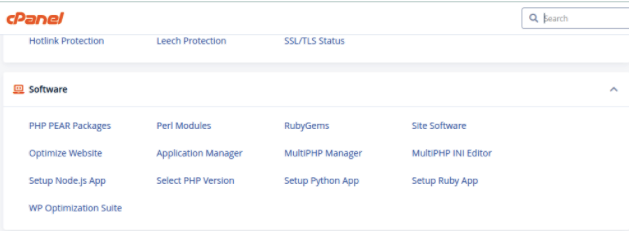
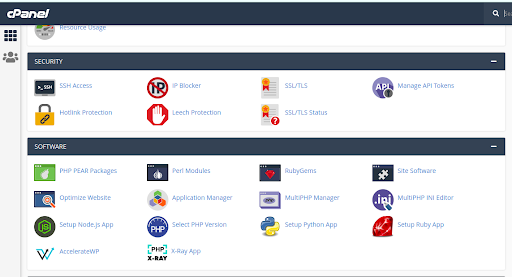
TCR-31: AccelerateWP documentation

diff --git a/docs/.vuepress/urls-mapping.js b/docs/.vuepress/urls-mapping.js
@@ -2542,5 +2542,6 @@ module.exports = {
   "/introduction/#what-is-cloudlinux": "/introduction/#what-is-cloudlinux-os-shared",
   "introduction/#cloudlinux-life-cycle": "/introduction/#cloudlinux-os-shared-life-cycle",
   "/introduction/#description-of-cloudlinux-components": "/introduction/#description-of-cloudlinux-os-shared-components",
-  "lve_manager/#cloudlinux-installation-wizard": "/lve_manager/#cloudlinux-os-shared-installation-wizard"
+  "lve_manager/#cloudlinux-installation-wizard": "/lve_manager/#cloudlinux-os-shared-installation-wizard",
+  "/wpos-plugin/#site-optimization-plugin": "/wpos-plugin/#site-optimization-module"
 };

diff --git a/docs/wpos-plugin/README.md b/docs/wpos-plugin/README.md
@@ -1,12 +1,15 @@
-# WordPress Optimization Suite
+# AccelerateWP & Smart Advice
 
-Also called WP Optimization Suite.
+AccelerateWP is an improved and updated WP Optimization Suite.
 
 ## Introduction
 
-Performance has a great impact on the site attendance and efficiency. We know that many customers want an auto tool to resolve problems with site performance. Many sites are built with WordPress CMS. So, we decided to find and implement a complex solution – the “WordPress Optimization Suite” to help our customers increase their site performance.
+Performance has a great impact on the site attendance and efficiency. We know that many customers want an auto tool to resolve problems with site performance. Many sites are built with WordPress CMS. So, we decided to find and implement a complex solution – the AccelerateWP tool to help our customers increase their site performance.
 
-We introduce the first functionality for the optimization suite called “Object cache module”.
+There are two modules in the AccelerateWP:  Object Cache Module and Site Optimization Module.
+
+The **Smart Advice** tool helps to decide which module will be most effective and helpful for particular website performance optimization.
+
 
 ### Object caching explanation
 
@@ -39,21 +42,38 @@ When we recommend to use Object cache module:
 * Max Memory usage limit (or limit for memory using by the Object cache module)
 
 
-### Limitations
+### Object Cache Module Limitations
 
 For the first beta release, there are the following limitations:
 
+* Required ea-PHP version 7.4 and 8.0.
 * Recommended WordPress version 3.7 and higher.
 * Object Cache module conflicts with other WordPress Caching plugins.
 * Object Cache module conflicts with the [Snuffleupagus](https://snuffleupagus.readthedocs.io/) php-extension.
 * Object Cache module does not work with WordPress Multisite mode.
 
-Let’s go to the interface and see how to use the WP Optimization Suite.
+### Site Optimization Module
+
+Site Optimization Module incorporates best practices in improving website performance.
+
+The main techniques which will be applied:
+
+* Caching
+* File optimization
+* Media Lazy Load
+* Content Preload 
+* Database cleanup
+
+### Smart Advice
+
+How does Smart Advice make a decision which module needs to be activated?
+
+Smart Advice has information about types of slow requests for the site for the appropriate period of time and creates new advice based on it. Advices are generated automatically so no additional configuration is needed.  
 
 
-## WP Optimization Suite User Interface
+## AccelerateWP User Interface
 
-1. Go to the list of software on your control panel and find the WP Optimization Suite icon:
+1. Go to the list of software on your control panel and find the AccelerateWP icon:
 
 ![](/images/WPOptimizationSuiteIcon.png)
 
@@ -61,13 +81,11 @@ Let’s go to the interface and see how to use the WP Optimization Suite.
 
 ![](/images/WPPluginInterface.png)
 
-1. Find a website for which you want to apply the Object Cache plugin and turn it on
+3. You can turn on the Object Cache module or the Site Optimization module by yourself or via the Smart Advice suggestion.
 
-![](/images/ObjectCachePluginTurnOn.png)
+### AccelerateWP information panel
 
-### Object Cache plugin information panel
-
-On the Object Cache plugin information panel you can find the following statuses.
+On the AccelerateWP information panel you can find the following statuses.
 
 * **Object Cache module Database status**
 
@@ -99,6 +117,26 @@ There is the value limitation for the Max Cache Memory: from 16 MB to 16 GB.
 
 Use the ![](/images/PurgeAllCache.png) button to clear cache for all websites.
 
+* **Smart Advice Suggestions**
+
+
+### Manage Smart Advice
+
+The advices are in the table:
+
+![](/images/SmartAdviceTable.png)
+
+To get an updated list of advices, click the *Refresh advice* button.
+
+A **not applied advice** has the *Review* status, description of suggesting optimization and the *Turn on site optimization* button.
+
+![](/images/NotAppliedAdvice.png)
+
+An applied advice will not disappear from the AccelerateWP interface, but it will be in the *Applied* state.
+
+![](/images/AppliedAdvice.png)
+
+
 ### Verifying and changing PHP version for the website
 
 #### Verifying PHP version for the website
@@ -123,11 +161,11 @@ It is important to use `ea-php`/`alt-php` version 7.4 and 8.0 for your website t
 * If you want to use alt-php (7.4 or 8.0), use CloudLinux PHP Selector (if it is available) to change the version.
 	
 
-### Error messages
+### Object Cache Module error messages
 
 #### No compatibility message
 
-Causes of the "No compatibility" message are always [Limitations](/wpos-plugin/#limitations). Each message has a small "how to", so you can try to fix them by yourself via cPanel or WordPress Admin interface.
+Causes of the "No compatibility" message are always [Limitations](/wpos-plugin/#object-cache-module-limitations). Each message has a small "how to", so you can try to fix them by yourself via cPanel or WordPress Admin interface.
 
 ![](/images/WPNoCompatibility.png)
 
@@ -151,8 +189,229 @@ If you get something like "Unexpected WordPress error" you can do the following:
 
 ![](/images/UnexpectedError.png)
 
-* As the first step, verify that [Limitations](/wpos-plugin/#limitations) are not broken.
+* As the first step, verify that [Limitations](/wpos-plugin/#object-cache-module-limitations) are not broken.
 * As the second step, [contact our support team](https://cloudlinux.zendesk.com/hc/en-us/requests/new) for further investigation.
+
+### Site Optimization Module Settings
+
+You can find the CloudLinux Site Optimization plugin in the WordPress Admin interface.
+
+![](/images/OptimizationModuleUI.png)
+
+
+Open *Settings*.
+
+![](/images/OptimizationSettings.png)
+
+#### Caching
+
+#### Mobile caching 
+ 
+Use it only if you website is adapted to use on smartphones and mobile phones.
+
+Separate cache files for mobile devices. In this case the content for mobile devices will be cached into different cache file as for desktop\tablets.
+
+This option is necessary if you have some functionality only for mobile devices, not for desktop\tablets.
+
+When use such options.
+
+![](/images/CacheUsageOptions.png)
+
+:::tip Note
+If you use an additional layer of Cache (Varnish, NGINX , etc.) make sure it can distinguish between desktop and mobile visitors.
+:::
+
+#### User Cache
+
+It is recommended to use such an option when your website has a unique content for each logged-in user. If the user is not logged-in, a common site cache will be used, otherwise each logged-in user’s content will be cached separately.
+
+#### File Optimization
+
+File Optimization consists of Minification and file Combining.
+
+Minification is the process of minimizing code in your web pages and script files. Webmasters look at minification as a primary method of reducing website load times via the bandwidth they use.
+
+Minification also reduces JS, CSS and HTML files. The goal is removing comments and extra spaces. It crunches variables that minimize code and ultimately reduces the file size. 
+
+After minification, the file still functions as it should. The difference is a reduction in bandwidth due to network requests.
+
+**By combining CSS & JS files, HTTP/1 does not allow multiple requests from the same TCP connection between a host server and a web browser**. 
+
+Putting CSS and JS files into their respective groups, makes requests for downloads from a browser safe and more efficient. The old way meant multiple connections that took up bandwidth. 
+ 
+**File (CSS & JS) combining is not necessary for HTTP/2** (see [https://webspeedtools.com/should-i-combine-css-js/](https://webspeedtools.com/should-i-combine-css-js/))
+
+HTTP/2 introduced multiplexing. Now, the browser can send unlimited number of requests to the server, then download all files simultaneously with only one TCP connection.
+
+Consequently, HTTP/2 takes care of multiple TCP connections and the waiting times before each download. In one sense, consolidating CSS and JS files might be unnecessary. 
+ 
+To verify which HTTP version is used for requests on your site, you can use [https://tools.keycdn.com/http2-test](https://tools.keycdn.com/http2-test).
+
+#### CSS Files
+
+**Minify CSS**
+
+Minify CSS reduces file sizes by taking out white space and comments embedded in the code. 
+
+**Combine CSS**
+
+Combine CSS reduces HTTP requests by merging all your files into one. Combine CSS is not recommended if your site uses HTTP/2. 
+
+**Excluded CSS Files**
+
+To single out those CSS files that should not be minimized, list the URLs attached to the CSS files that should be excluded from minification and concatenation (one per line).
+ 
+:::warning Caution!
+Minification removes the domain from the URL.
+:::
+ 
+To prevent that, use (. *).CSS wildcards to exclude all files in a specific location.
+ 
+3rd Party: when excluding external CSS files, use the domain or the full URL path.
+
+#### JavaScript Files
+
+**Minify javascript files**
+
+Minify JavaScript removes whitespace and comments to reduce the file size.
+
+**Combine JavaScripts files**
+
+This option will be active only if you choose Minify javascript files. It is not recommended for HTTP2.
+
+**Load JavaScript deferred**
+
+One major cause of slow web pages is a so-called blocking script ([https://www.dummies.com/web-design-development/javascript/deferred-loading-with-javascript/](https://www.dummies.com/web-design-development/javascript/deferred-loading-with-javascript/)).
+
+Loading JavaScript called a blocking script blocks the webpage from loading.
+ 
+Using the `defer` attribute alerts the browser not to wait for the script. Things will continue as usual per the build HTML and DOM processes. Quietly, the script rests in the background, then runs once the DOM is built.
+
+So, the `Load JavaScript deferred` option adds to each script tag the `defer` attribute. 
+
+**Delay JavaScript Execution**
+
+This option helps to decrease the page load time by delaying loading of all JavaScripts on the page. This option can be applied only for already cached pages, it is incompatible with the Combine JavaScripts files option.
+
+#### Media
+
+**LazyLoad**
+
+LazyLoad affects the page in the next way - if the user opens the page for the first loading there will be only first displayed (visible to user) images, others will be loaded if the user scrolls down. Images added via CSS file, the `<style>` tag or via `Elementor` will not be affected by the LazyLoad.
+
+The following options allows working with LazyLoad
+
+* Enable LazyLoad for images
+* Enable LazyLoad for iframes and videos
+* Excluded images or iframes
+
+#### Image Dimensions
+
+**Add Missing Image Dimensions**
+
+Correct image dimensions help the browser to recognize page structure without delays, because the browser knows how much space is needed for the image.
+
+Cases when image will not be affected by the *Add Missing Image Dimensions*:
+
+* Images which have any attribute with name containing `*height*` or `*width*`
+* Images which are part of the `<picture>` tag
+* SVG images
+* Image from external domains
+
+#### Preload
+
+**Preload Cache**
+
+Usually, a page cache is created when this page is first visited. You can activate the preload page cache. It means that the cache for the page will be created when the page is created or updated.
+
+If sitemap-based cache preloading is activated, a specified sitemap file will be used for preliminary cache generation.
+
+**Preload Links**
+
+Provides functionality to preload the HTML content of the hovered link for acceleration loading pages after click.
+
+**Prefetch DNS Requests**
+
+If your website uses external resources (e.g. Google fonts, Youtube video, etc) CloudLinux Site Optimization can preload these resources for accelerating loading pages. To activate preloading external URLs, provide a list of external URLs.
+
+**Preload Fonts**
+
+Accelerates the loading of fonts by the browser, informing the browser at the very beginning of the request about the full list of fonts to download
+
+#### Advanced Rules
+
+Advanced site caching settings. If you have specific pages that must be processed individually you can add a custom rule for them.
+
+**Never Cache URL(s)**
+
+Provide a list of URLs that cannot be cached.
+
+**Never Cache Cookies**
+
+Provide a list of Cookie files that cannot be cached.
+
+**Never Cache User Agent(s)**
+
+Provide a list of User Agent names that cannot be cached.
+
+**Always Purge URL(s)**
+
+You can specify URLs that will be deleted from the cache when any post or page will be updated.
+
+**Cache Query String(s)**
+
+By default CloudLinux Site Optimization does not cache URLs with query strings, but in this option, you can specify GET-parameters that must be cached.
+
+#### Database
+
+Database optimization provides clearing database from expired and unused data.
+
+**Post Cleanup**
+
+Provides clearing posts revisions, autosaved drafts, and deleted posts from the trash. Be careful, you will not be able to restore this data after clearing it.
+
+**Comments Cleanup**
+
+Provides clearing spam and deleted comments from the trash. Be careful, you will not be able to restore this data after clearing it.
+ 
+**Transients Cleanup**
+
+Provides clearing temporary options for existing plugins and older unused options that keep after deleting plugins.
+ 
+**Database Cleanup**
+
+Provides table optimizations in your database server.
+
+**Automatic cleanup**
+
+Allows you to schedule periodic database cleanups.
+
+#### Heartbeat
+
+WordPress Heartbeat is a function of server polling that provides delivery data from server to browser periodically.
+
+**Reduce or disable Heartbeat activity**
+
+To control server loads you can activate the *Control Heartbeat* function and reduce or disable Heartbeat activity. You can manage Heartbeat activity separately for backend, frontend, and post-editing parts. Be careful, disabling Heartbeat can break plugins that use this functionality.
+
+#### One-click CloudLinux Site Optimization Add-ons
+
+**Varnish**
+
+When the server uses Varnish, you need to activate the add-on for implementing clearing Varnish cache when CloudLinux Site Optimization clears site cache.
+
+**WebP Compatibility**
+
+If your site uses the WebP plugin you can activate CloudLinux Site Optimization WebP Compatibility add-on to achieve browser compatibility with your WebP images.
+
+#### Cloudflare
+
+If your site is connected to the Cloudflare CDN you can activate the Cloudflare add-on to manage Cloudflare options with CloudLinux Site Optimization and automatic clearing cache when CloudLinux Site Optimization clears site cache. After activating the add-on, you need to click the *Modify Options* button and specify the Cloudflare API key, Account E-mail and Zone ID.
+
+
+#### Tools
+
+For backing up the settings, there is a function for exporting settings. To use it, click the *Download settings* button. When you need to restore settings, choose your saved settings file and click the *Upload file and import settings* button.
 
 
 ### Object Cache module Known Issues
@@ -181,20 +440,20 @@ The popular tools:
 * [PageSpeed Insights](https://developers.google.com/speed/pagespeed/insights/)
 * [Pingdom Website Speed Test](https://tools.pingdom.com/)
 
-### Where the WP optimization tool log files are located?
+### Where the AccelerateWP tool log files are located?
 
 Login via SSH, find in your home directory  `~/.clwpos/main.log`. Or you can open it using the control panel file manager.
 
-### I already use the WordPress Redis object cache plugin. Will the WP Optimization Suite be useful for me?
+### I already use the WordPress Redis object cache plugin. Will the AccelerateWP be useful for me?
 
 No, in the current version we suggest the same optimization as you already have. But we include other useful modules in the next versions, so let’s stay in touch.
 
-### I already use the WordPress Redis object cache PRO plugin. Will the WP Optimization Suite be useful for me?
+### I already use the WordPress Redis object cache PRO plugin. Will the AccelerateWP be useful for me?
 
 No, in the current version we suggest the same optimization as you already have. But we include other useful modules in the next versions, so let’s stay in touch.
 
+### What is the difference between Object Module Cache and Caching in Site Optimization Module?
 
+Object Cache Module - object caching in PHP code, only those objects that explicitly use the WordPress Object Cache are cached ([https://developer.wordpress.org/reference/classes/wp_object_cache/](https://developer.wordpress.org/reference/classes/wp_object_cache/)). Typically, such a cache is used to obtain the results of SQL queries or other code entities (some instances of classes, data arrays, etc.), i.e. it's more low-level caching. The page with such caches is also assembled from components, but some of them are taken from the cache if the cache is found in Redis.
 
-
-
-
+Site optimization module - the entire page is cached and stored in the file system in the cache folder. At the very beginning of the request, the content of the file is read from the cache and sent to the user's browser. If there is a cache for the current page, it prevents the WordPress core part from loading, and all plugins, themes, and so on.
